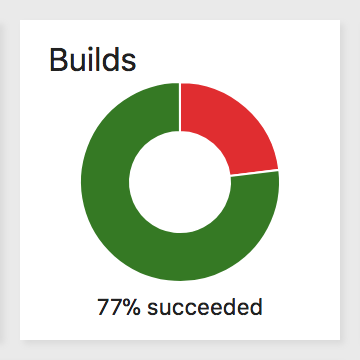
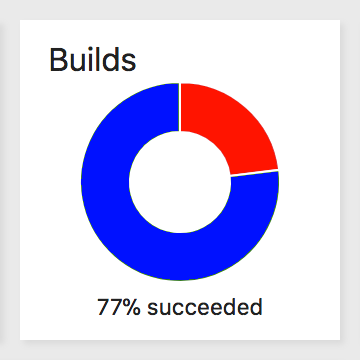
change chart colors, image

Changed region(s): [[0.2139, 0.2139, 0.7944, 0.7944]]

diff --git a/chart.html b/chart.html
@@ -96,12 +96,12 @@
                                         "series": [{
                                             "data": [{
                                                     "name": "Failed",
-                                                    "color": "#E02D30",
+                                                    "color": "#FF0000",
                                                     "y": failedCount
                                                 },
                                                 {
                                                     "name": "Succeeded",
-                                                    "color": "#357924",
+                                                    "color": "#0000FF",
                                                     "y": succeededCount
                                                 }
                                             ]
@@ -112,7 +112,7 @@
                                     var pathParts = settings.buildPath.split("\\");
                                     var pathLeaf = pathParts[pathParts.length - 1];
                                     console.log("pathLeaf", pathLeaf);
-                                    $('h2.title').text(pathLeaf);
+                                    $('h2.title').text(pathLeaf + " (30d)");
                                     $container = $('#Chart-Container');
                                     $container.empty();
                                     // set tooltip to full path
